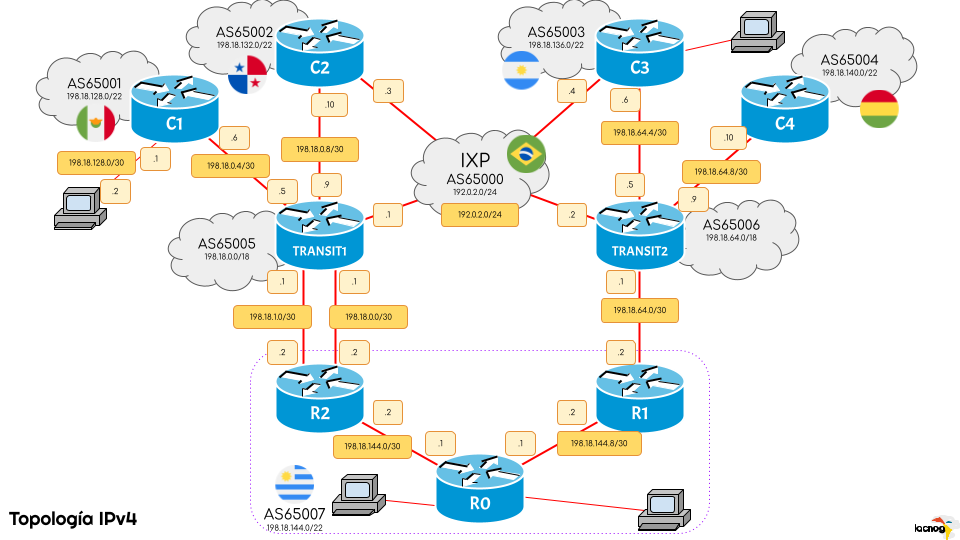
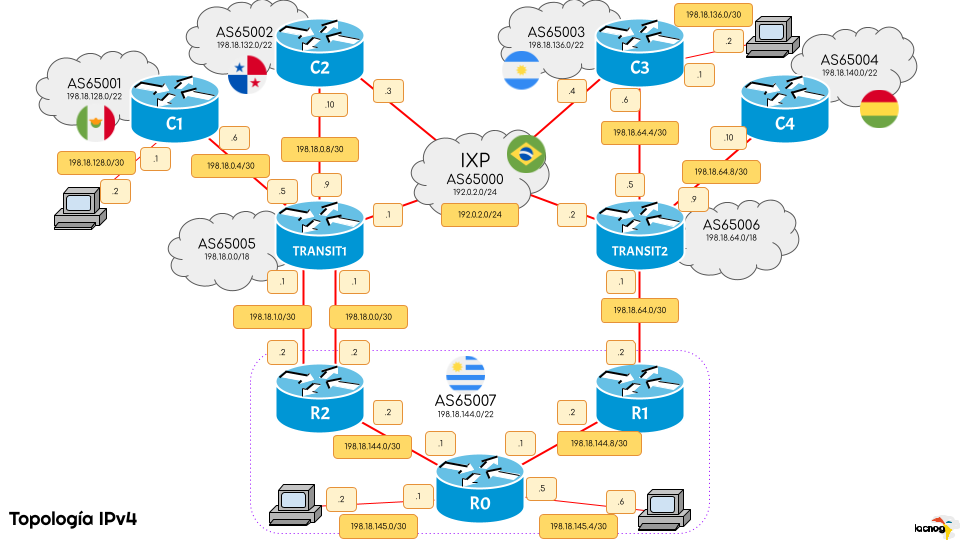
Se arreglaron los diagramas: agregamos las PC de clientes Se agregaron archivos README a cada carpeta. Se actualizó la config de iptransit1 (+RTBH) Se acomodaron los archivos que subió @as65007

diff --git a/README.md b/README.md
@@ -1,8 +1,18 @@
 # bgp-communities-handson
 
 ## Diagramas
+### Topología y sistemas operativos
 ![Sistemas Operativos](assets/img/lacnog-handson-bgp-os.png)
+### Interfaces
 ![Topología Física](assets/img/lacnog-handson-bgp-interfaces.png)
+### IPv4
 ![IPv4](assets/img/lacnog-handson-bgp-ipv4.png)
+### IPv6
 ![IPv6](assets/img/lacnog-handson-bgp-ipv6.png)
+### Peers BGP
 ![Peers BGP](assets/img/lacnog-handson-bgp-bgp.png)
+
+## Uso del lab
+
+En el branch master están las configuraciones básicas de los equipos.
+Los ejercicios y ejemplos serán almacenados en otros branches.
